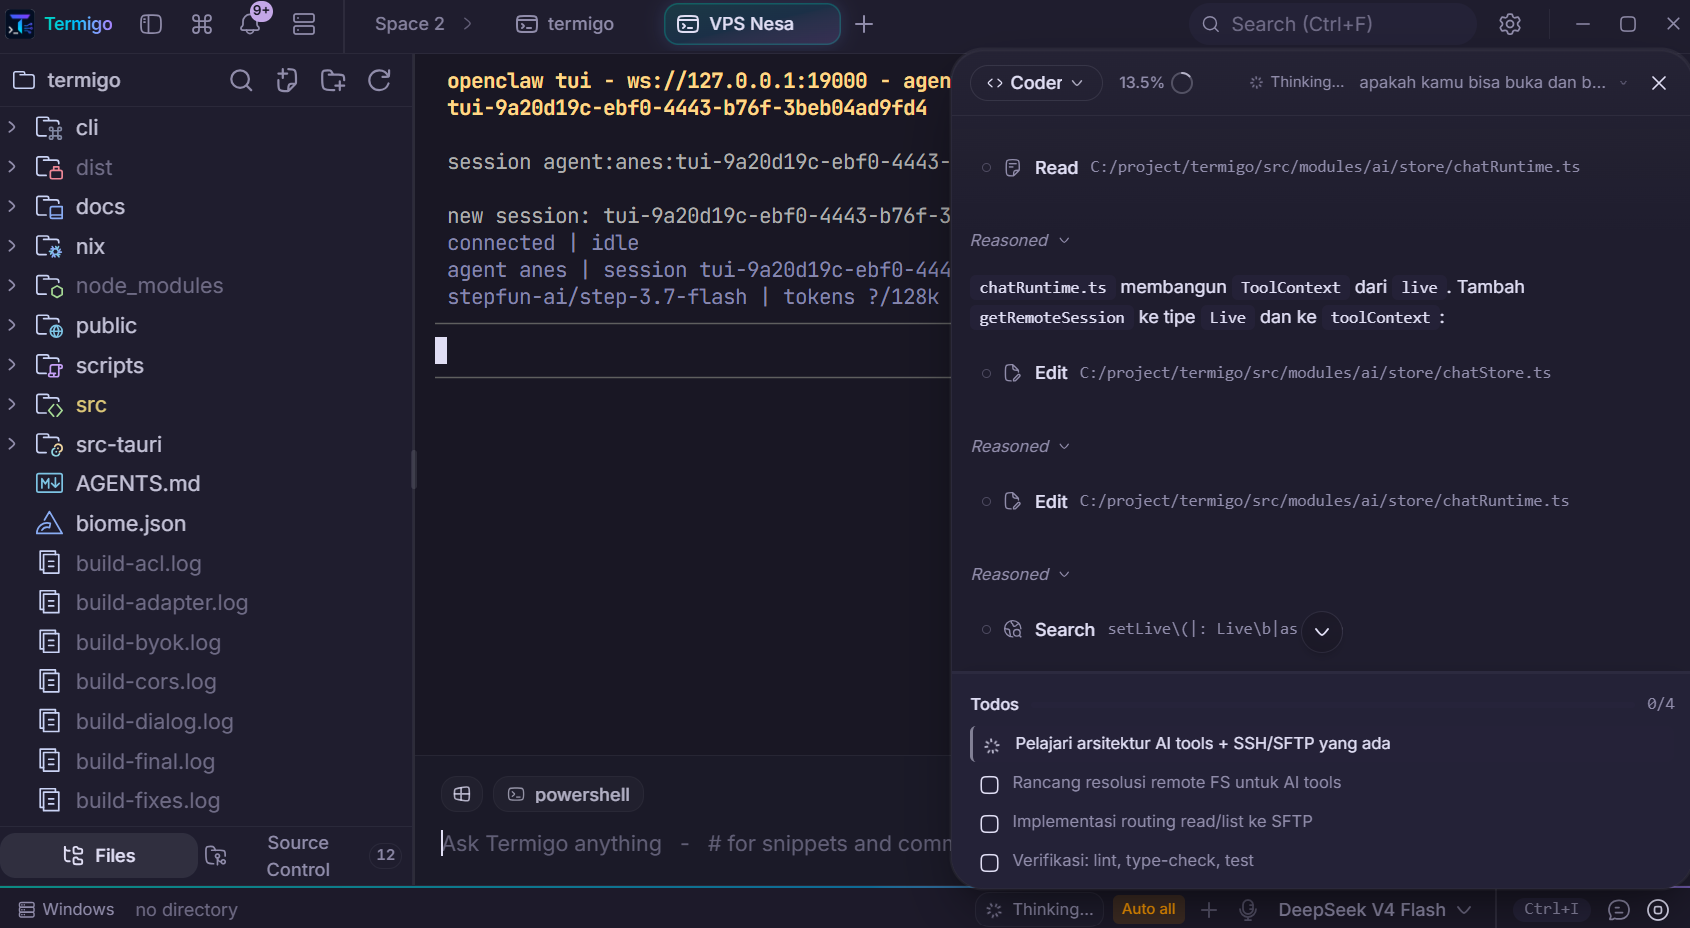
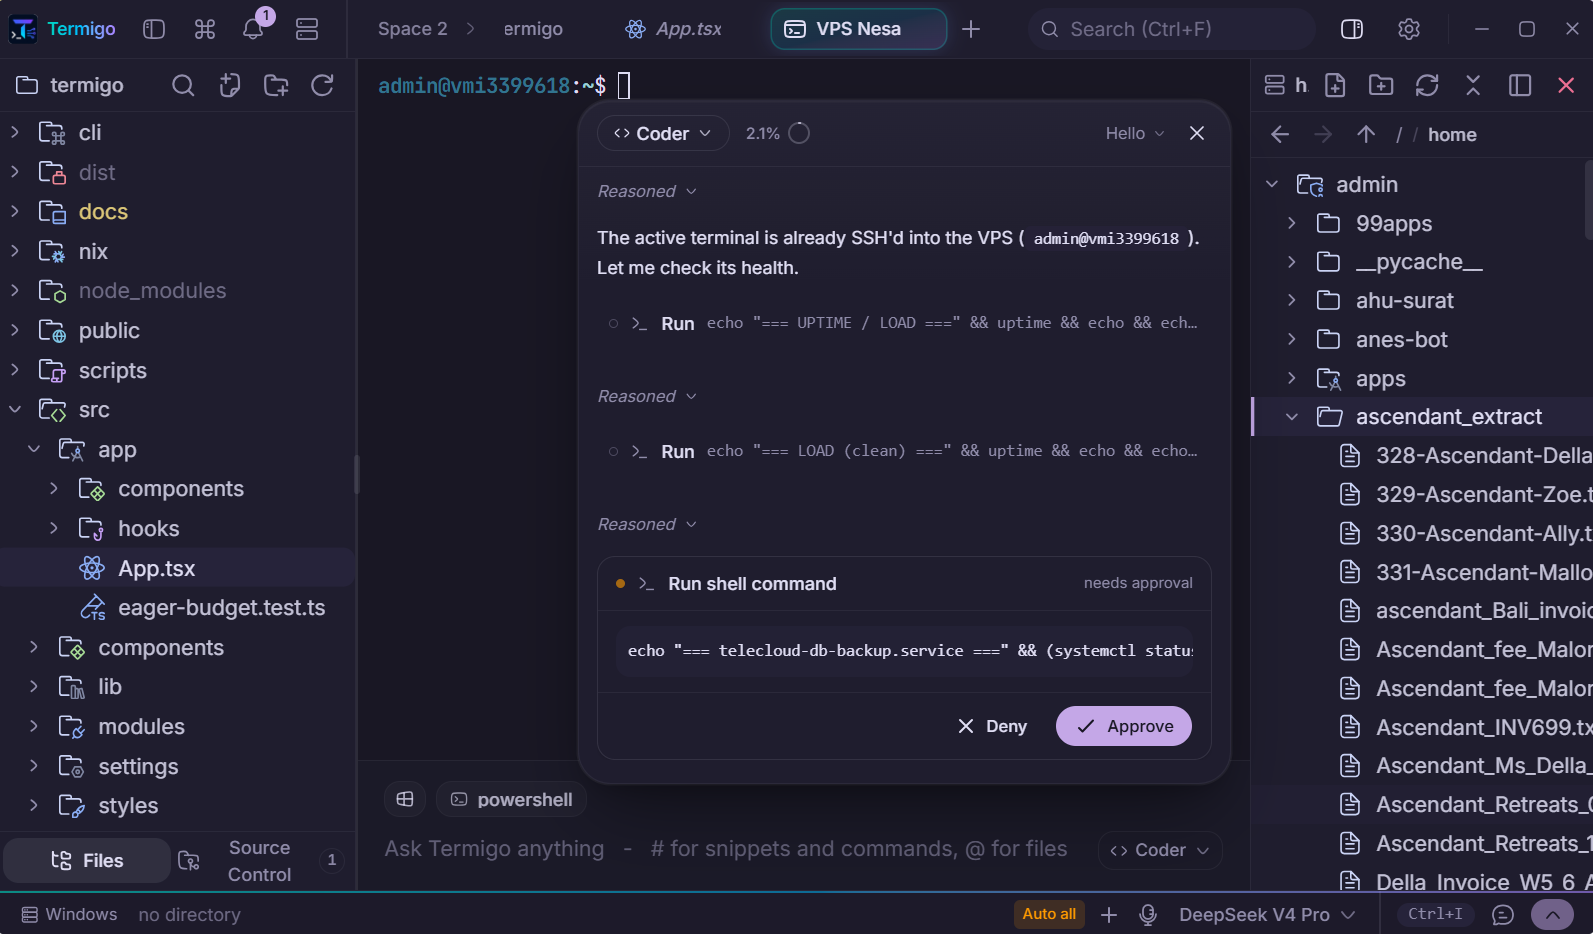
fix(ai): gate remote commands by risk, not by being remote
Remote commands asked for approval in every mode, including "Auto-approve all".
The argument was that a command on someone else's machine has no boundary the
way a workspace path does, and that argument was incomplete. Using it showed
why: setting up a server is dozens of commands, most of them `ls`, `cat`,
`docker ps` and `systemctl status`, and approving each one turns review into
reflex. A prompt that always appears is a prompt nobody reads, which is a worse
outcome than a narrower gate that still means something.

So the gate moves onto what carries the risk. Under `Auto-approve edits`, a
remote command that only reports runs - it changes nothing anywhere, which puts
it with the read-only tools that never asked - while anything that could change
the server still stops. `Ask every time` and `Auto-approve all` are unchanged
and now mean what their labels say.

The classifier is fail-closed by design, since being wrong in the permissive
direction is the whole thing it guards against. Every segment of a chain must
qualify, because one `&&` away from `rm -rf` is not an inspection command
however harmless the first half looks. A redirection counts as a write whatever
produced the output. Command substitution is refused outright rather than
analysed. `sudo` disqualifies. `find` with `-delete` or `-exec` is not the same
command as `find`. Anything unrecognised is treated as changing the server.

Local behaviour is untouched: `Auto-approve edits` still says commands ask, and
[…]

diff --git a/src/modules/ai/lib/commandRisk.ts b/src/modules/ai/lib/commandRisk.ts
@@ -1,0 +1,110 @@
+// Telling an inspection command apart from one that changes something.
+//
+// Remote commands asked for approval every single time, in every mode. The
+// reasoning was that a command on someone else's machine has no boundary the
+// way a workspace path does. Using it proved the reasoning incomplete: setting
+// up a server is dozens of commands, most of them `ls`, `cat`, `docker ps`,
+// `systemctl status`, and approving each one turns review into reflex. A prompt
+// that always appears is a prompt nobody reads, which is worse than a narrower
+// gate that still means something.
+//
+// So the gate moves to what actually carries risk. This classifier is
+// deliberately fail-closed: a command is inspection only if every part of it is
+// recognised as such, and anything unfamiliar counts as changing something.
+// Being wrong in the permissive direction is what this is guarding against.
+
+/** Commands that only report. Anything absent from this list is not trusted. */
+const READ_ONLY = new Set([
+  "ls", "pwd", "cat", "head", "tail", "less", "wc", "stat", "file", "readlink",
+  "grep", "egrep", "fgrep", "rg", "awk", "sed", "cut", "sort", "uniq", "tr",
+  "echo", "printf", "date", "whoami", "id", "hostname", "uname", "uptime",
+  "df", "du", "free", "ps", "top", "env", "printenv", "which", "type", "command",
+  "dirname", "basename", "realpath", "test", "true", "false", "sleep",
+  "curl", "wget", "dig", "nslookup", "host", "ping", "ss", "netstat", "lsof",
+  "md5sum", "sha256sum", "diff", "tree", "jq", "yq", "column", "tee",
+]);
+
+/** Subcommands that only report, for tools where the verb decides. */
+const READ_ONLY_SUBCOMMANDS: Record<string, Set<string>> = {
+  git: new Set([
+    "status", "log", "diff", "show", "branch", "remote", "config", "blame",
+    "describe", "rev-parse", "ls-files", "ls-remote", "shortlog", "tag",
+  ]),
+  docker: new Set(["ps", "images", "logs", "inspect", "version", "info", "port", "top", "stats"]),
+  systemctl: new Set(["status", "is-active", "is-enabled", "list-units", "list-unit-files", "show", "cat"]),
+  journalctl: new Set(["--no-pager"]),
+  npm: new Set(["ls", "list", "view", "outdated", "config"]),
+  pnpm: new Set(["ls", "list", "why", "outdated"]),
+  kubectl: new Set(["get", "describe", "logs", "top", "version"]),
+  apt: new Set(["list", "show", "search", "policy"]),
+  "apt-get": new Set([]),
+};
+
+/**
+ * Flags that turn an otherwise read-only command into a destructive one.
+ *
+ * `find` is the reason this exists: it reads until `-delete` or `-exec`, at
+ * which point it runs anything at all.
+ */
+const DESTRUCTIVE_FLAGS = ["-delete", "-exec", "-execdir", "-ok", "-okdir", "--delete"];
+
+/** Strip quoting so the first word can be read, without interpreting it. */
+function firstWord(segment: string): string {
+  const trimmed = segment.trim().replace(/^[({\s]+/, "");
+  // Skip leading VAR=value assignments, which prefix a command rather than
+  // being one.
+  const withoutEnv = trimmed.replace(/^(?:[A-Za-z_][A-Za-z0-9_]*=\S*\s+)+/, "");
+  const word = withoutEnv.split(/\s+/)[0] ?? "";
+  return word.replace(/^["']|["']$/g, "").split("/").pop() ?? "";
+}
+
+function secondWord(segment: string): string {
+  const parts = segment.trim().split(/\s+/);
+  return (parts[1] ?? "").replace(/^["']|["']$/g, "");
+}
+
+/**
+ * Whether a command only inspects.
+ *
+ * Every segment must qualify: one `&&` away from `rm -rf` is not an inspection
+ * command, however harmless the first half looks.
+ */
+export function isReadOnlyCommand(command: string): boolean {
+  const text = command.trim();
+  if (!text) return false;
+
+  // A redirection writes a file regardless of which command produced the
+  // output, so it disqualifies the whole line.
+  if (/(^|[^0-9<>])>{1,2}[^>]/.test(text)) return false;
+  // Command substitution can run anything, and reading inside it is not worth
+  // the analysis it would take to be sure.
+  if (/\$\(|`/.test(text)) return false;
+
+  const segments = text.split(/&&|\|\||;|\|/);
+  for (const segment of segments) {
+    if (!segment.trim()) continue;
+    const cmd = firstWord(segment);
+    if (!cmd) return false;
+    // sudo says the command needs privileges it would not otherwise have.
+    if (cmd === "sudo" || cmd === "doas" || cmd === "su") return false;
+
+    if (DESTRUCTIVE_FLAGS.some((f) => new RegExp(`(^|\\s)${f}(\\s|$)`).test(segment))) {
+      return false;
+    }
+
+    const subcommands = READ_ONLY_SUBCOMMANDS[cmd];
+    if (subcommands) {
+      if (!subcommands.has(secondWord(segment))) return false;
+      continue;
+    }
+    if (!READ_ONLY.has(cmd)) return false;
+  }
+  return true;
+}
+
+/** The label used in the approval decision and in explaining it. */
+export type CommandRisk = "inspect" | "change";
+
+export function commandRisk(command: string): CommandRisk {
+  return isReadOnlyCommand(command) ? "inspect" : "change";
+}

diff --git a/src/modules/ai/lib/commandRisk.test.ts b/src/modules/ai/lib/commandRisk.test.ts
@@ -1,0 +1,115 @@
+import { describe, expect, it } from "vitest";
+import { commandRisk, isReadOnlyCommand } from "./commandRisk";
+
+describe("inspection commands", () => {
+  // These are the bulk of what an agent runs while working on a server, and
+  // gating them is what turned review into reflex.
+  it("recognises everyday inspection", () => {
+    for (const c of [
+      "ls -la /srv/app",
+      "cat /etc/nginx/nginx.conf",
+      "pwd",
+      "df -h",
+      "ps aux",
+      "grep -rn TODO /srv",
+      "tail -n 100 /var/log/syslog",
+      "whoami",
+      "uname -a",
+    ]) {
+      expect(isReadOnlyCommand(c)).toBe(true);
+    }
+  });
+
+  it("reads the verb for tools where it decides", () => {
+    for (const c of [
+      "git status",
+      "git log --oneline -20",
+      "docker ps -a",
+      "docker logs myapp",
+      "systemctl status nginx",
+      "kubectl get pods",
+    ]) {
+      expect(isReadOnlyCommand(c)).toBe(true);
+    }
+  });
+
+  it("allows a pipeline of inspection commands", () => {
+    expect(isReadOnlyCommand("ps aux | grep nginx | head -5")).toBe(true);
+    expect(isReadOnlyCommand("cat access.log | wc -l")).toBe(true);
+  });
+
+  it("ignores an env prefix and a full path", () => {
+    expect(isReadOnlyCommand("LC_ALL=C ls -la")).toBe(true);
+    expect(isReadOnlyCommand("/usr/bin/cat /etc/hostname")).toBe(true);
+  });
+});
+
+describe("commands that change something", () => {
+  it("catches the obvious ones", () => {
+    for (const c of [
+      "rm -rf /srv/app",
+      "apt install nginx",
+      "systemctl restart nginx",
+      "docker compose up -d",
+      "mv a b",
+      "chmod 777 /etc",
+      "npm install",
+      "git push",
+      "git commit -m x",
+    ]) {
+      expect(isReadOnlyCommand(c)).toBe(false);
+    }
+  });
+
+  // One `&&` away from rm -rf is not an inspection command, however harmless
+  // the first half looks.
+  it("rejects a chain where any part changes something", () => {
+    expect(isReadOnlyCommand("ls -la && rm -rf /tmp/x")).toBe(false);
+    expect(isReadOnlyCommand("cat a.txt; systemctl restart nginx")).toBe(false);
+    expect(isReadOnlyCommand("grep x f || apt install y")).toBe(false);
+  });
+
+  // find reads until -delete or -exec, at which point it runs anything.
+  it("catches a read command turned destructive by a flag", () => {
+    expect(isReadOnlyCommand("find /tmp -name '*.log' -delete")).toBe(false);
+    expect(isReadOnlyCommand("find / -name x -exec rm {} ;")).toBe(false);
+  });
+
+  it("treats a redirection as a write, whatever produced the output", () => {
+    expect(isReadOnlyCommand("cat a > b")).toBe(false);
+    expect(isReadOnlyCommand("echo hi >> /etc/hosts")).toBe(false);
+  });
+
+  // Substitution can run anything, and proving otherwise is not worth the
+  // analysis it would take.
+  it("refuses command substitution", () => {
+    expect(isReadOnlyCommand("echo $(rm -rf /)")).toBe(false);
+    expect(isReadOnlyCommand("cat `whoami`")).toBe(false);
+  });
+
+  it("refuses anything asking for privileges", () => {
+    expect(isReadOnlyCommand("sudo ls")).toBe(false);
+    expect(isReadOnlyCommand("su -c ls")).toBe(false);
+  });
+
+  // Fail-closed is the whole design: being wrong in the permissive direction
+  // is what this guards against.
+  it("treats an unfamiliar command as changing something", () => {
+    expect(isReadOnlyCommand("mysterious-binary --go")).toBe(false);
+    expect(isReadOnlyCommand("./deploy.sh")).toBe(false);
+    expect(isReadOnlyCommand("")).toBe(false);
+  });
+
+  it("treats an unknown subcommand of a known tool as changing something", () => {
+    expect(isReadOnlyCommand("git reset --hard")).toBe(false);
+    expect(isReadOnlyCommand("docker rm -f app")).toBe(false);
+    expect(isReadOnlyCommand("systemctl stop nginx")).toBe(false);
+  });
+});
+
+describe("commandRisk", () => {
+  it("labels both sides", () => {
+    expect(commandRisk("ls")).toBe("inspect");
+    expect(commandRisk("rm -rf /")).toBe("change");
+  });
+});

diff --git a/src/modules/ai/lib/approvalPolicy.test.ts b/src/modules/ai/lib/approvalPolicy.test.ts
@@ -78,18 +78,55 @@ describe("delete is held back from the edit tier", () => {
 // refuses paths outside it. A command on a remote host has no equivalent
 // boundary, so this is the one place an approval mode may not speak for the
 // user.
-describe("commands on a remote host always ask", () => {
-  it("asks even under the mode that says nothing waits", () => {
-    expect(isAutoApproved("bash_run", "all", { onRemoteHost: true })).toBe(false);
-    expect(isAutoApproved("bash_background", "all", { onRemoteHost: true })).toBe(
-      false,
-    );
+describe("commands on a remote host", () => {
+  // Gating every remote command meant dozens of prompts to set up one server,
+  // most of them for `ls`. A prompt that always appears is a prompt nobody
+  // reads, so the gate sits on risk rather than on being remote.
+  it("lets inspection through once edits are delegated", () => {
+    for (const command of ["ls -la", "docker ps", "git status", "cat /etc/hosts"]) {
+      expect(isAutoApproved("bash_run", "edits", { onRemoteHost: true, command })).toBe(
+        true,
+      );
+    }
   });
 
+  it("still stops anything that could change the server", () => {
+    for (const command of [
+      "rm -rf /srv",
+      "systemctl restart nginx",
+      "apt install nginx",
+      "ls && rm -rf /tmp/x",
+    ]) {
+      expect(isAutoApproved("bash_run", "edits", { onRemoteHost: true, command })).toBe(
+        false,
+      );
+    }
+  });
+
+  // Fail-closed: an unrecognised command is treated as changing the server.
+  it("stops a command it cannot classify", () => {
+    expect(
+      isAutoApproved("bash_run", "edits", { onRemoteHost: true, command: "./deploy.sh" }),
+    ).toBe(false);
+    expect(isAutoApproved("bash_run", "edits", { onRemoteHost: true })).toBe(false);
+  });
+
+  it("honours the mode that says nothing waits", () => {
+    expect(
+      isAutoApproved("bash_run", "all", { onRemoteHost: true, command: "rm -rf /" }),
+    ).toBe(true);
+  });
+
+  it("asks for everything in the default mode", () => {
+    expect(
+      isAutoApproved("bash_run", "ask", { onRemoteHost: true, command: "ls" }),
+    ).toBe(false);
+  });
+
+  // Local behaviour is untouched: `Auto-approve edits` still says commands ask.
   it("leaves local commands under the mode the user chose", () => {
     expect(isAutoApproved("bash_run", "all")).toBe(true);
-    expect(isAutoApproved("bash_run", "all", { onRemoteHost: false })).toBe(true);
-    expect(isAutoApproved("bash_run", "edits")).toBe(false);
+    expect(isAutoApproved("bash_run", "edits", { command: "ls" })).toBe(false);
   });
 
   // Only command execution is held back. File edits on the remote host are

diff --git a/src/modules/ai/lib/approvalPolicy.ts b/src/modules/ai/lib/approvalPolicy.ts
@@ -1,6 +1,7 @@
 import { isMcpTool } from "./mcpToolNames";
 import { isExtensionTool } from "./extensionToolNames";
 import { isCustomTool } from "./customToolNames";
+import { commandRisk } from "./commandRisk";
 
 // Approval policy for agent tool calls.
 //
@@ -98,11 +99,13 @@ export const APPROVAL_MODE_HINTS: Record<ApprovalMode, string> = {
  * server - so this is the one place a mode is not allowed to speak for the
  * user.
  */
-const REMOTE_ALWAYS_ASK = new Set(["bash_run", "bash_background"]);
+const REMOTE_COMMAND_TOOLS = new Set(["bash_run", "bash_background"]);
 
 export type ApprovalContext = {
   /** The call would run against the host of an open SSH session. */
   onRemoteHost?: boolean;
+  /** The shell command, when the call is one. Decides inspect vs change. */
+  command?: string;
 };
 
 export function isAutoApproved(
@@ -110,7 +113,20 @@ export function isAutoApproved(
   mode: ApprovalMode,
   ctx: ApprovalContext = {},
 ): boolean {
-  if (ctx.onRemoteHost && REMOTE_ALWAYS_ASK.has(toolName)) return false;
+  // Remote commands used to ask in every mode. In practice that meant dozens
+  // of prompts to set up one server, most of them for `ls` and `docker ps`,
+  // and a prompt that always appears is a prompt nobody reads. The gate now
+  // sits on what carries the risk rather than on the fact of being remote.
+  if (ctx.onRemoteHost && REMOTE_COMMAND_TOOLS.has(toolName)) {
+    if (mode === "all") return true;
+    if (mode === "ask") return false;
+    // `Auto-approve edits` delegates changes inside the workspace. A remote
+    // command that only reports changes nothing anywhere, so it belongs with
+    // the read-only tools that never asked. Anything that could change the
+    // server still stops - and the classifier treats whatever it does not
+    // recognise as changing the server.
+    return commandRisk(ctx.command ?? "") === "inspect";
+  }
   if (mode === "all") return true;
   // An MCP tool is third-party code doing something this app cannot inspect,
   // so it never rides along with "auto-approve edits" - which is a statement

diff --git a/src/modules/ai/hooks/useAutoApproval.ts b/src/modules/ai/hooks/useAutoApproval.ts
@@ -47,7 +47,11 @@ export function useAutoApproval(
       // between the request and this effect, and the machine the command would
       // land on is what decides whether a mode may speak for them.
       const onRemoteHost = !!useChatStore.getState().live.getRemoteSession();
-      if (!tool || !isAutoApproved(tool, mode, { onRemoteHost })) continue;
+      // The command decides whether a remote call is inspection or a change,
+      // so it has to reach the policy rather than being inferred from the name.
+      const input = part.input as { command?: unknown } | undefined;
+      const command = typeof input?.command === "string" ? input.command : undefined;
+      if (!tool || !isAutoApproved(tool, mode, { onRemoteHost, command })) continue;
 
       answered.current.add(id);
       void respond({ id, approved: true });

diff --git a/README.md b/README.md
@@ -113,11 +113,11 @@ This project is a **fork of [Terax](https://github.com/crynta/terax-ai)**
   commands is single-quoted, so a pattern cannot become a second command.
   `bash_run` runs on the server too, from the remote shell's working directory,
   so the agent can install packages, reload Caddy or bring a compose stack up
-  without you relaying commands. **A command on a remote host always asks for
-  approval, in every approval mode including `Auto-approve all`** — the safety
-  layer's boundary is "inside this workspace", and a command on someone else's
-  machine has no equivalent, so that is the one place a mode is not allowed to
-  speak for you. `replace_in_files`, `copy_file` and `bash_background` still
+  without you relaying commands. Remote commands are gated by what they do rather than by
+  being remote: under `Auto-approve edits`, one that only inspects (`ls`,
+  `docker ps`, `git status`) runs, and anything that could change the server
+  stops for a click — as does anything the classifier does not recognise. Under
+  `Ask every time` all of them ask; under `Auto-approve all` none do. `replace_in_files`, `copy_file` and `bash_background` still
   have no remote form and refuse while a session is open, saying what to use
   instead rather than quietly acting on your own disk.
 - **Tools the agent defines for itself.** After running something worth
